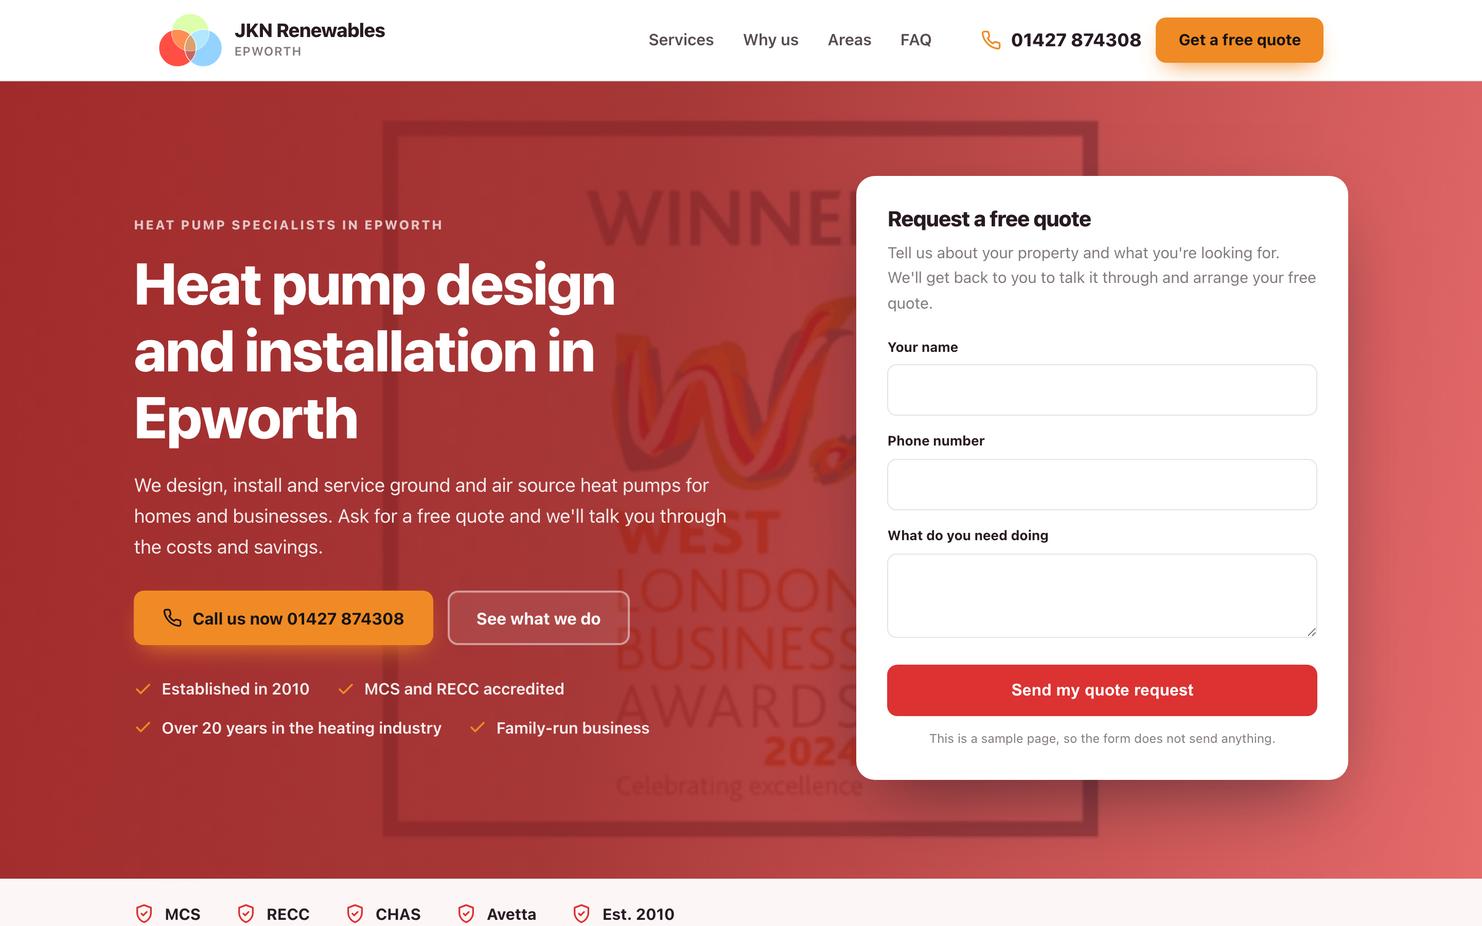
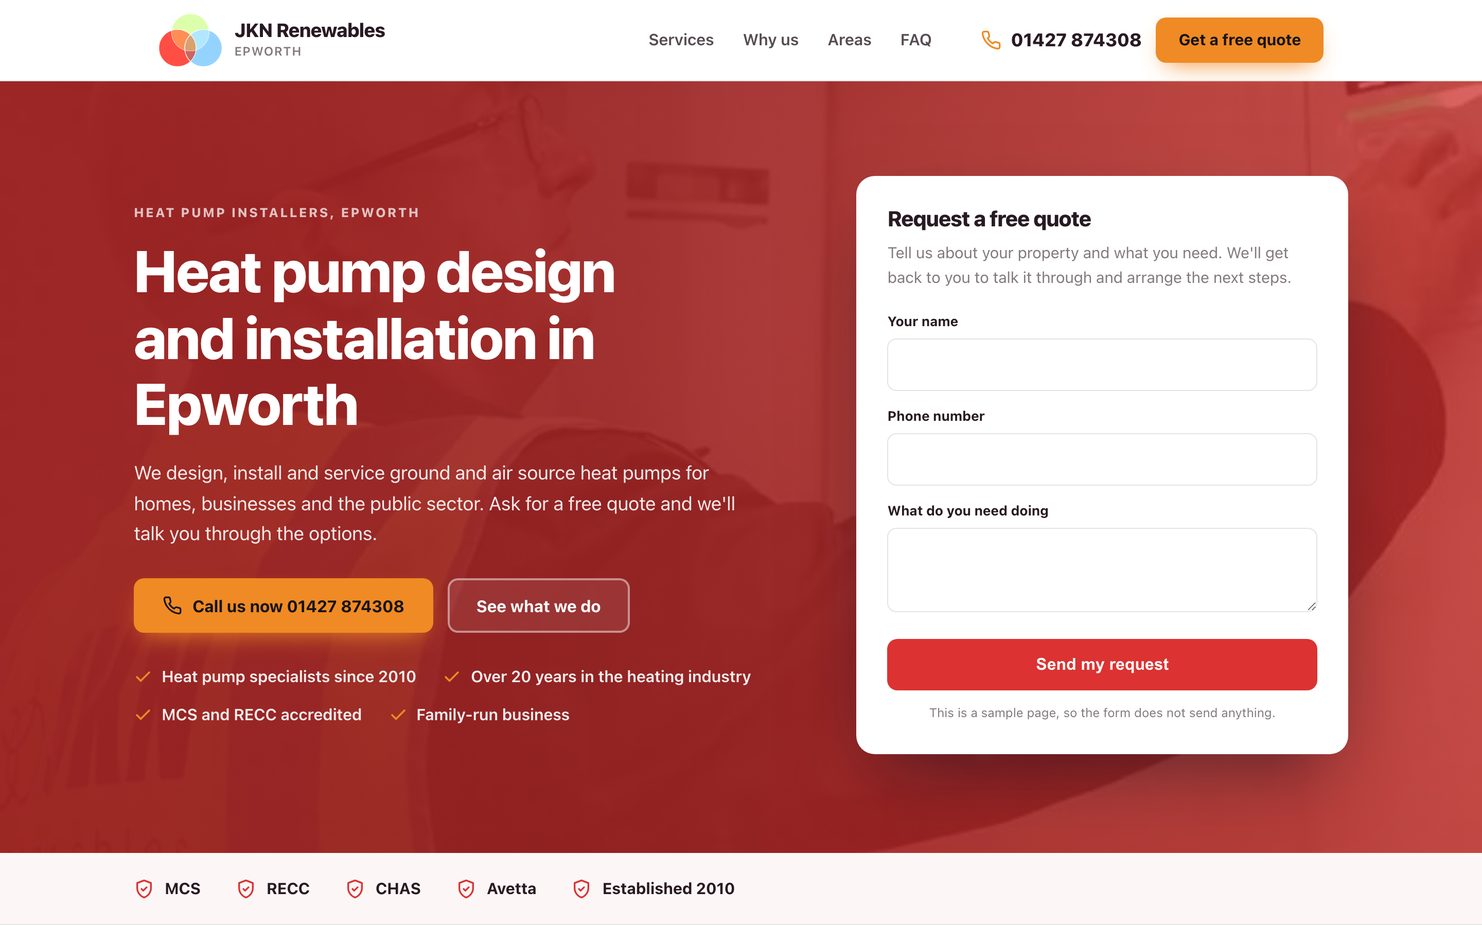
One page sample for JKN Renewables

diff --git a/docs/436ceac4b0/index.html b/docs/436ceac4b0/index.html
@@ -4,16 +4,16 @@
 <meta charset="utf-8">
 <meta name="viewport" content="width=device-width, initial-scale=1">
 <meta name="robots" content="noindex,nofollow">
-<meta name="aso-build" content="ec8ab5778453">
+<meta name="aso-build" content="3af596019952">
 <title>Heat Pump Installers in Epworth | JKN Renewables</title>
-<meta name="description" content="MCS accredited heat pump design and installation in Epworth. Ground and air source, underfloor heating and PV-T. Free quotes from JKN Renewables.">
+<meta name="description" content="Heat pump design and installation in Epworth from JKN Renewables. MCS accredited and family-run since 2010. Ask for a free quote.">
 <link rel="canonical" href="https://markygff.github.io/aso-mockups/436ceac4b0/">
 <meta property="og:type" content="website">
 <meta property="og:site_name" content="JKN Renewables">
 <meta property="og:title" content="Heat Pump Installers in Epworth | JKN Renewables">
-<meta property="og:description" content="MCS accredited heat pump design and installation in Epworth. Ground and air source, underfloor heating and PV-T. Free quotes from JKN Renewables.">
+<meta property="og:description" content="Heat pump design and installation in Epworth from JKN Renewables. MCS accredited and family-run since 2010. Ask for a free quote.">
 <meta property="og:url" content="https://markygff.github.io/aso-mockups/436ceac4b0/">
-<meta property="og:image" content="img/p05.jpg"><meta name="twitter:card" content="summary_large_image">
+<meta property="og:image" content="img/p00.jpg"><meta name="twitter:card" content="summary_large_image">
 <style>
 :root{
   --primary:#dc3232;
@@ -287,22 +287,22 @@ p{margin:0}
 </header>
 
 <section class="hero">
-  <div class="hero-bg"><img src="img/p05.jpg" alt="JKN Renewables at work" width="1600" height="900"></div>
+  <div class="hero-bg"><img src="img/p00.jpg" alt="JKN Renewables at work" width="1600" height="900"></div>
   <div class="wrap hero-in">
     <div>
-      <p class="eyebrow">Heat pump specialists in Epworth</p>
+      <p class="eyebrow">Heat pump installers, Epworth</p>
       <h1>Heat pump design and installation in Epworth</h1>
-      <p class="hero-sub">We design, install and service ground and air source heat pumps for homes and businesses. Ask for a free quote and we&#39;ll talk you through the costs and savings.</p>
+      <p class="hero-sub">We design, install and service ground and air source heat pumps for homes, businesses and the public sector. Ask for a free quote and we&#39;ll talk you through the options.</p>
       <div class="hero-actions">
         <a class="btn btn-accent" href="tel:+441427874308"><svg viewBox="0 0 24 24" fill="none" stroke="currentColor" stroke-width="2" stroke-linecap="round" stroke-linejoin="round" aria-hidden="true"><path d="M22 16.9v3a2 2 0 0 1-2.2 2 19.8 19.8 0 0 1-8.6-3.1 19.5 19.5 0 0 1-6-6 19.8 19.8 0 0 1-3.1-8.7A2 2 0 0 1 4.1 2h3a2 2 0 0 1 2 1.7c.1 1 .4 1.9.7 2.8a2 2 0 0 1-.5 2.1L8.1 9.9a16 16 0 0 0 6 6l1.3-1.2a2 2 0 0 1 2.1-.5c.9.3 1.8.6 2.8.7a2 2 0 0 1 1.7 2z"/></svg>Call us now 01427 874308</a>
         <a class="btn btn-ghost" href="#services">See what we do</a>
       </div>
       <ul class="hero-bullets">
-<li><svg viewBox="0 0 24 24" fill="none" stroke="currentColor" stroke-width="2.4" stroke-linecap="round" stroke-linejoin="round" aria-hidden="true"><path d="M20 6 9 17l-5-5"/></svg><span>Established in 2010</span></li><li><svg viewBox="0 0 24 24" fill="none" stroke="currentColor" stroke-width="2.4" stroke-linecap="round" stroke-linejoin="round" aria-hidden="true"><path d="M20 6 9 17l-5-5"/></svg><span>MCS and RECC accredited</span></li><li><svg viewBox="0 0 24 24" fill="none" stroke="currentColor" stroke-width="2.4" stroke-linecap="round" stroke-linejoin="round" aria-hidden="true"><path d="M20 6 9 17l-5-5"/></svg><span>Over 20 years in the heating industry</span></li><li><svg viewBox="0 0 24 24" fill="none" stroke="currentColor" stroke-width="2.4" stroke-linecap="round" stroke-linejoin="round" aria-hidden="true"><path d="M20 6 9 17l-5-5"/></svg><span>Family-run business</span></li>      </ul>
+<li><svg viewBox="0 0 24 24" fill="none" stroke="currentColor" stroke-width="2.4" stroke-linecap="round" stroke-linejoin="round" aria-hidden="true"><path d="M20 6 9 17l-5-5"/></svg><span>Heat pump specialists since 2010</span></li><li><svg viewBox="0 0 24 24" fill="none" stroke="currentColor" stroke-width="2.4" stroke-linecap="round" stroke-linejoin="round" aria-hidden="true"><path d="M20 6 9 17l-5-5"/></svg><span>Over 20 years in the heating industry</span></li><li><svg viewBox="0 0 24 24" fill="none" stroke="currentColor" stroke-width="2.4" stroke-linecap="round" stroke-linejoin="round" aria-hidden="true"><path d="M20 6 9 17l-5-5"/></svg><span>MCS and RECC accredited</span></li><li><svg viewBox="0 0 24 24" fill="none" stroke="currentColor" stroke-width="2.4" stroke-linecap="round" stroke-linejoin="round" aria-hidden="true"><path d="M20 6 9 17l-5-5"/></svg><span>Family-run business</span></li>      </ul>
     </div>
     <div class="quote-card" id="quote">
       <h3>Request a free quote</h3>
-      <p class="lead">Tell us about your property and what you&#39;re looking for. We&#39;ll get back to you to talk it through and arrange your free quote.</p>
+      <p class="lead">Tell us about your property and what you need. We&#39;ll get back to you to talk it through and arrange the next steps.</p>
       <form action="#" onsubmit="return false" novalidate>
         <div class="field"><label for="h-name">Your name</label>
           <input id="h-name" name="name" type="text" autocomplete="name"></div>
@@ -310,7 +310,7 @@ p{margin:0}
           <input id="h-phone" name="phone" type="tel" autocomplete="tel"></div>
         <div class="field"><label for="h-job">What do you need doing</label>
           <textarea id="h-job" name="job"></textarea></div>
-        <button class="btn btn-primary" type="button">Send my quote request</button>
+        <button class="btn btn-primary" type="button">Send my request</button>
       </form>
       <p class="sample-note">This is a sample page, so the form does not send anything.</p>
     </div>
@@ -323,7 +323,7 @@ p{margin:0}
     <div class="trust-item"><svg viewBox="0 0 24 24" fill="none" stroke="currentColor" stroke-width="2" stroke-linecap="round" stroke-linejoin="round" aria-hidden="true"><path d="M12 2 4 5v6c0 5 3.4 9.4 8 11 4.6-1.6 8-6 8-11V5z"/><path d="m9 12 2 2 4-4"/></svg><span>RECC</span></div>
     <div class="trust-item"><svg viewBox="0 0 24 24" fill="none" stroke="currentColor" stroke-width="2" stroke-linecap="round" stroke-linejoin="round" aria-hidden="true"><path d="M12 2 4 5v6c0 5 3.4 9.4 8 11 4.6-1.6 8-6 8-11V5z"/><path d="m9 12 2 2 4-4"/></svg><span>CHAS</span></div>
     <div class="trust-item"><svg viewBox="0 0 24 24" fill="none" stroke="currentColor" stroke-width="2" stroke-linecap="round" stroke-linejoin="round" aria-hidden="true"><path d="M12 2 4 5v6c0 5 3.4 9.4 8 11 4.6-1.6 8-6 8-11V5z"/><path d="m9 12 2 2 4-4"/></svg><span>Avetta</span></div>
-    <div class="trust-item"><svg viewBox="0 0 24 24" fill="none" stroke="currentColor" stroke-width="2" stroke-linecap="round" stroke-linejoin="round" aria-hidden="true"><path d="M12 2 4 5v6c0 5 3.4 9.4 8 11 4.6-1.6 8-6 8-11V5z"/><path d="m9 12 2 2 4-4"/></svg><span>Est. 2010</span></div>
+    <div class="trust-item"><svg viewBox="0 0 24 24" fill="none" stroke="currentColor" stroke-width="2" stroke-linecap="round" stroke-linejoin="round" aria-hidden="true"><path d="M12 2 4 5v6c0 5 3.4 9.4 8 11 4.6-1.6 8-6 8-11V5z"/><path d="m9 12 2 2 4-4"/></svg><span>Established 2010</span></div>
   </div>
 </div>
 
@@ -331,35 +331,43 @@ p{margin:0}
   <div class="wrap">
     <div class="section-head">
       <p class="eyebrow">What we do</p>
-      <h2>Heat pump and renewable heating services</h2>
-      <p>We handle the whole job, from design and consultancy to installation, commissioning and servicing. We work on homes, businesses and public sector buildings.</p>
+      <h2>Our heat pump services</h2>
+      <p>We look after the whole job, from the first design to commissioning and servicing. Homes, commercial sites and public sector buildings.</p>
     </div>
     <div class="grid grid-3">
       <article class="card card-photo">
-        <img src="img/p06.jpg" alt="for Premium Heat Pump Installations" width="600" height="380" loading="lazy">
+        <img src="img/p06.jpg" alt="Build &amp; Installation" width="600" height="380" loading="lazy">
         <div class="card-body">
-          <h3>for Premium Heat Pump Installations</h3>
-          <p>Ground and air source heat pumps for homes, businesses and public buildings. We design up to MIS-3005, then supply, fit and commission the system.</p>
+          <h3>Build &amp; Installation</h3>
+          <p>Supply and installation of heat pump systems with quality components. Built off-site or on-site, with project management throughout.</p>
         </div>
       </article>
       <article class="card card-photo">
-        <img src="img/p07.jpg" alt="Renewable" width="600" height="380" loading="lazy">
+        <img src="img/p07.jpg" alt="Design &amp; Consultancy" width="600" height="380" loading="lazy">
         <div class="card-body">
-          <h3>Renewable</h3>
-          <p>Low-energy heating, cooling and hot water, including underfloor heating. A good fit when you want to cut running costs and move away from an old system.</p>
-        </div>
-      </article>
-      <article class="card card-photo">
-        <img src="img/p00.jpg" alt="Installed 580 solar PVT panels" width="600" height="380" loading="lazy">
-        <div class="card-body">
-          <h3>Installed 580 solar PVT panels</h3>
-          <p>We&#39;ve installed 580 solar PV-T panels. PV-T is one of our core services for domestic, commercial and public sector projects.</p>
+          <h3>Design &amp; Consultancy</h3>
+          <p>Feasibility studies, detailed design up to MIS-3005 and lifecycle cost analysis for when you&#39;re weighing up a heat pump.</p>
         </div>
       </article>
       <article class="card">
+        <div class="icon"><svg viewBox="0 0 24 24" fill="none" stroke="currentColor" stroke-width="2" stroke-linecap="round" stroke-linejoin="round" aria-hidden="true"><path d="M3 10.5 12 3l9 7.5"/><path d="M5 9.5V21h14V9.5"/><path d="M10 21v-6h4v6"/></svg></div>
+        <h3>Commission &amp; Service</h3>
+        <p>Commissioning, performance monitoring and planned preventative maintenance to keep your system running well after it&#39;s fitted.</p>
+      </article>
+      <article class="card">
         <div class="icon"><svg viewBox="0 0 24 24" fill="none" stroke="currentColor" stroke-width="2" stroke-linecap="round" stroke-linejoin="round" aria-hidden="true"><path d="M4 20 15 9"/><path d="m14 4 6 6-3 3-6-6z"/><path d="m3 15 6 6"/></svg></div>
-        <h3>Upgraded lighting fixtures</h3>
-        <p>Upgraded lighting fixtures are part of the work we&#39;ve carried out. Ask us about it when you&#39;re planning a wider energy upgrade.</p>
+        <h3>Underfloor heating</h3>
+        <p>Underfloor heating design and installation as part of a low-energy heating system for homes and businesses.</p>
+      </article>
+      <article class="card">
+        <div class="icon"><svg viewBox="0 0 24 24" fill="none" stroke="currentColor" stroke-width="2" stroke-linecap="round" stroke-linejoin="round" aria-hidden="true"><path d="M12 3s5 4.2 5 9a5 5 0 0 1-10 0c0-1.8.8-3.2 1.6-4.2.3 1 1 1.9 1.9 2.3C11 8.4 10.7 5.6 12 3z"/></svg></div>
+        <h3>PV-T systems</h3>
+        <p>Design and installation of PV-T systems for homes and commercial buildings that want low-energy heating and hot water.</p>
+      </article>
+      <article class="card">
+        <div class="icon"><svg viewBox="0 0 24 24" fill="none" stroke="currentColor" stroke-width="2" stroke-linecap="round" stroke-linejoin="round" aria-hidden="true"><path d="M2 7h11v10H2z"/><path d="M13 10h4l4 3.5V17h-8z"/><circle cx="6" cy="18" r="2"/><circle cx="17" cy="18" r="2"/></svg></div>
+        <h3>Troubleshooting</h3>
+        <p>Diagnosis and fault-finding on existing heat pump installations that aren&#39;t performing as they should.</p>
       </article>
     </div>
   </div>
@@ -375,29 +383,29 @@ p{margin:0}
       <div class="why-item">
         <div class="why-badge">1</div>
         <div>
-          <h3>Established in 2010</h3>
-          <p>We&#39;ve been in business since 2010, and our team brings over 20 years in the heating industry.</p>
+          <h3>Family-run since 2010</h3>
+          <p>We&#39;re a well-established, family-run business. We look after your job from the first conversation to completion.</p>
         </div>
       </div>
       <div class="why-item">
         <div class="why-badge">2</div>
         <div>
-          <h3>Properly accredited</h3>
-          <p>We hold MCS, RECC, CHAS and Avetta accreditation, so your installation is done to recognised standards.</p>
+          <h3>Led by Antony Noonan</h3>
+          <p>Antony has over 20 years in the heating industry, from gas certifications to working closely with leading heat pump manufacturers.</p>
         </div>
       </div>
       <div class="why-item">
         <div class="why-badge">3</div>
         <div>
-          <h3>Design to commissioning</h3>
-          <p>One team designs, fits and commissions your system. We also offer maintenance contracts, diagnostics and fault-finding.</p>
+          <h3>Properly accredited</h3>
+          <p>We hold MCS and RECC accreditation, plus CHAS and Avetta.</p>
         </div>
       </div>
       <div class="why-item">
         <div class="why-badge">4</div>
         <div>
-          <h3>Family-run</h3>
-          <p>We&#39;re a well-established, family-run business. You&#39;ll get a friendly, efficient service from first visit to completion.</p>
+          <h3>Design to commissioning</h3>
+          <p>We handle feasibility, design, installation and commissioning, then offer maintenance contracts to keep it running.</p>
         </div>
       </div>
     </div>
@@ -409,8 +417,8 @@ p{margin:0}
   <div class="wrap">
     <div class="section-head">
       <p class="eyebrow">Where we work</p>
-      <h2>Heat pump installers based in Epworth</h2>
-      <p>We&#39;re based in Epworth. We work on homes, businesses and public sector buildings.</p>
+      <h2>Heat pump installers in Epworth</h2>
+      <p>We&#39;re based in Epworth. We work with homeowners, businesses and public sector clients.</p>
     </div>
     <ul class="area-list">
 <li>Epworth</li>    </ul>
@@ -421,27 +429,27 @@ p{margin:0}
   <div class="wrap" style="max-width:840px">
     <div class="section-head">
       <p class="eyebrow">Questions</p>
-      <h2>Heat pump questions</h2>
+      <h2>Heat pump questions we get asked</h2>
     </div>
     <div class="faq-item">
-      <h3><span>Q.</span>Do you give free quotes for heat pump installation?</h3>
-      <p>Yes. Send us your details through the quote form and we&#39;ll arrange a free quote. We&#39;ll look at your needs and budget, and talk you through costs, savings and the incentives available.</p>
+      <h3><span>Q.</span>Do you give free heat pump quotes in Epworth?</h3>
+      <p>Yes. Quotes are free. Fill in the quote form with a few details about your property and what you&#39;re after, and we&#39;ll get back to you.</p>
     </div>
     <div class="faq-item">
-      <h3><span>Q.</span>Do you install air source and ground source heat pumps in Epworth?</h3>
-      <p>Yes. We&#39;re based in Epworth and we design and install both ground and air source heat pumps, as well as underfloor heating and PV-T systems.</p>
+      <h3><span>Q.</span>Can you help if my heat pump has stopped working properly?</h3>
+      <p>Yes. We offer troubleshooting and fault-finding on existing installations, along with ongoing technical support. Describe the fault on the form so we know what we&#39;re dealing with before we come out.</p>
+    </div>
+    <div class="faq-item">
+      <h3><span>Q.</span>What happens on the first visit for a heat pump?</h3>
+      <p>We start with a consultation to understand your property, your needs and your budget. We&#39;ll match that to suitable products and explain the likely savings, costs and incentives.</p>
     </div>
     <div class="faq-item">
       <h3><span>Q.</span>Are you an MCS accredited heat pump installer?</h3>
-      <p>Yes. We&#39;re MCS accredited and we&#39;re also members of RECC. We hold CHAS and Avetta accreditation too. Our detailed design work goes up to MIS-3005.</p>
+      <p>Yes. We&#39;re accredited with MCS and RECC, and we design systems up to MIS-3005. We also hold CHAS and Avetta.</p>
     </div>
     <div class="faq-item">
-      <h3><span>Q.</span>Can you fix or service a heat pump someone else installed?</h3>
-      <p>Yes. We diagnose and resolve problems in existing installations and offer fault-finding. We also run planned maintenance contracts and performance monitoring to keep systems working well.</p>
-    </div>
-    <div class="faq-item">
-      <h3><span>Q.</span>Do you work on commercial and public sector heat pump projects?</h3>
-      <p>Yes. We take on commercial and public sector work as well as homes. That covers feasibility studies, lifecycle cost analysis, design, project management, installation and commissioning.</p>
+      <h3><span>Q.</span>Can you help me apply for a heat pump grant?</h3>
+      <p>Yes. We&#39;ll advise on the grants and incentives that apply to your project and help with the application.</p>
     </div>
   </div>
 </section>
@@ -451,7 +459,7 @@ p{margin:0}
     <div>
       <p class="eyebrow">Get in touch</p>
       <h2 style="font-size:clamp(1.75rem,3.2vw,2.4rem);margin-bottom:14px">Request a free quote</h2>
-      <p style="color:var(--muted);font-size:1.06rem">Tell us about your property and what you&#39;re looking for. We&#39;ll get back to you to talk it through and arrange your free quote.</p>
+      <p style="color:var(--muted);font-size:1.06rem">Tell us about your property and what you need. We&#39;ll get back to you to talk it through and arrange the next steps.</p>
       <div class="contact-facts">
         <div class="fact-row"><svg viewBox="0 0 24 24" fill="none" stroke="currentColor" stroke-width="2" stroke-linecap="round" stroke-linejoin="round" aria-hidden="true"><path d="M22 16.9v3a2 2 0 0 1-2.2 2 19.8 19.8 0 0 1-8.6-3.1 19.5 19.5 0 0 1-6-6 19.8 19.8 0 0 1-3.1-8.7A2 2 0 0 1 4.1 2h3a2 2 0 0 1 2 1.7c.1 1 .4 1.9.7 2.8a2 2 0 0 1-.5 2.1L8.1 9.9a16 16 0 0 0 6 6l1.3-1.2a2 2 0 0 1 2.1-.5c.9.3 1.8.6 2.8.7a2 2 0 0 1 1.7 2z"/></svg><div><strong>Phone</strong>
           <a href="tel:+441427874308">01427 874308</a></div></div>
@@ -473,12 +481,12 @@ p{margin:0}
           <input id="c-email" name="email" type="email" autocomplete="email"></div>
         <div class="field"><label for="c-service">What do you need</label>
           <select id="c-service" name="service">
-<option>for Premium Heat Pump Installations</option><option>Renewable</option><option>Installed 580 solar PVT panels</option><option>Upgraded lighting fixtures</option>            <option>Something else</option>
+<option>Build &amp; Installation</option><option>Design &amp; Consultancy</option><option>Commission &amp; Service</option><option>Underfloor heating</option><option>PV-T systems</option><option>Troubleshooting</option>            <option>Something else</option>
           </select></div>
         <div class="field"><label for="c-msg">Tell us about the job</label>
           <textarea id="c-msg" name="message"></textarea></div>
         <button class="btn btn-accent" type="button" style="width:100%;justify-content:center">
-          Send my quote request</button>
+          Send my request</button>
         <p class="sample-note">Sample page. Nothing is sent and nothing is stored.</p>
       </form>
     </div>
@@ -490,11 +498,11 @@ p{margin:0}
     <div class="footer-in">
       <div>
         <div class="footer-brand">JKN Renewables</div>
-        <p>Heat pump design, installation and servicing for homes and businesses, based in Epworth.</p>
+        <p>Heat pump design, installation and servicing from a family-run business in Epworth.</p>
 <p style="margin-top:14px"><a href="tel:+441427874308">01427 874308</a></p>      </div>
       <div>
         <h4>Services</h4>
-        <ul><li>for Premium Heat Pump Installations</li><li>Renewable</li><li>Installed 580 solar PVT panels</li><li>Upgraded lighting fixtures</li></ul>
+        <ul><li>Build &amp; Installation</li><li>Design &amp; Consultancy</li><li>Commission &amp; Service</li><li>Underfloor heating</li><li>PV-T systems</li><li>Troubleshooting</li></ul>
       </div>
       <div>
         <h4>Areas</h4>
@@ -514,7 +522,7 @@ p{margin:0}
     "@type": "Plumber",
     "name": "JKN Renewables",
     "url": "https://markygff.github.io/aso-mockups/436ceac4b0/",
-    "description": "MCS accredited heat pump design and installation in Epworth. Ground and air source, underfloor heating and PV-T. Free quotes from JKN Renewables.",
+    "description": "Heat pump design and installation in Epworth from JKN Renewables. MCS accredited and family-run since 2010. Ask for a free quote.",
     "telephone": "01427 874308",
     "email": "enquiries@jknrenewables.co.uk",
     "address": {
@@ -535,28 +543,42 @@ p{margin:0}
         "@type": "Offer",
         "itemOffered": {
           "@type": "Service",
-          "name": "for Premium Heat Pump Installations"
+          "name": "Build & Installation"
         }
       },
       {
         "@type": "Offer",
         "itemOffered": {
           "@type": "Service",
-          "name": "Renewable"
+          "name": "Design & Consultancy"
         }
       },
       {
         "@type": "Offer",
         "itemOffered": {
           "@type": "Service",
-          "name": "Installed 580 solar PVT panels"
+          "name": "Commission & Service"
         }
       },
       {
         "@type": "Offer",
         "itemOffered": {
           "@type": "Service",
-          "name": "Upgraded lighting fixtures"
+          "name": "Underfloor heating"
+        }
+      },
+      {
+        "@type": "Offer",
+        "itemOffered": {
+          "@type": "Service",
+          "name": "PV-T systems"
+        }
+      },
+      {
+        "@type": "Offer",
+        "itemOffered": {
+          "@type": "Service",
+          "name": "Troubleshooting"
         }
       }
     ],
@@ -568,18 +590,26 @@ p{margin:0}
     "mainEntity": [
       {
         "@type": "Question",
-        "name": "Do you give free quotes for heat pump installation?",
+        "name": "Do you give free heat pump quotes in Epworth?",
         "acceptedAnswer": {
           "@type": "Answer",
-          "text": "Yes. Send us your details through the quote form and we'll arrange a free quote. We'll look at your needs and budget, and talk you through costs, savings and the incentives available."
+          "text": "Yes. Quotes are free. Fill in the quote form with a few details about your property and what you're after, and we'll get back to you."
         }
       },
       {
         "@type": "Question",
-        "name": "Do you install air source and ground source heat pumps in Epworth?",
+        "name": "Can you help if my heat pump has stopped working properly?",
         "acceptedAnswer": {
           "@type": "Answer",
-          "text": "Yes. We're based in Epworth and we design and install both ground and air source heat pumps, as well as underfloor heating and PV-T systems."
+          "text": "Yes. We offer troubleshooting and fault-finding on existing installations, along with ongoing technical support. Describe the fault on the form so we know what we're dealing with before we come out."
+        }
+      },
+      {
+        "@type": "Question",
+        "name": "What happens on the first visit for a heat pump?",
+        "acceptedAnswer": {
+          "@type": "Answer",
+          "text": "We start with a consultation to understand your property, your needs and your budget. We'll match that to suitable products and explain the likely savings, costs and incentives."
         }
       },
       {
@@ -587,23 +617,15 @@ p{margin:0}
         "name": "Are you an MCS accredited heat pump installer?",
         "acceptedAnswer": {
           "@type": "Answer",
-          "text": "Yes. We're MCS accredited and we're also members of RECC. We hold CHAS and Avetta accreditation too. Our detailed design work goes up to MIS-3005."
+          "text": "Yes. We're accredited with MCS and RECC, and we design systems up to MIS-3005. We also hold CHAS and Avetta."
         }
       },
       {
         "@type": "Question",
-        "name": "Can you fix or service a heat pump someone else installed?",
+        "name": "Can you help me apply for a heat pump grant?",
         "acceptedAnswer": {
           "@type": "Answer",
-          "text": "Yes. We diagnose and resolve problems in existing installations and offer fault-finding. We also run planned maintenance contracts and performance monitoring to keep systems working well."
-        }
-      },
-      {
-        "@type": "Question",
-        "name": "Do you work on commercial and public sector heat pump projects?",
-        "acceptedAnswer": {
-          "@type": "Answer",
-          "text": "Yes. We take on commercial and public sector work as well as homes. That covers feasibility studies, lifecycle cost analysis, design, project management, installation and commissioning."
+          "text": "Yes. We'll advise on the grants and incentives that apply to your project and help with the application."
         }
       }
     ]
